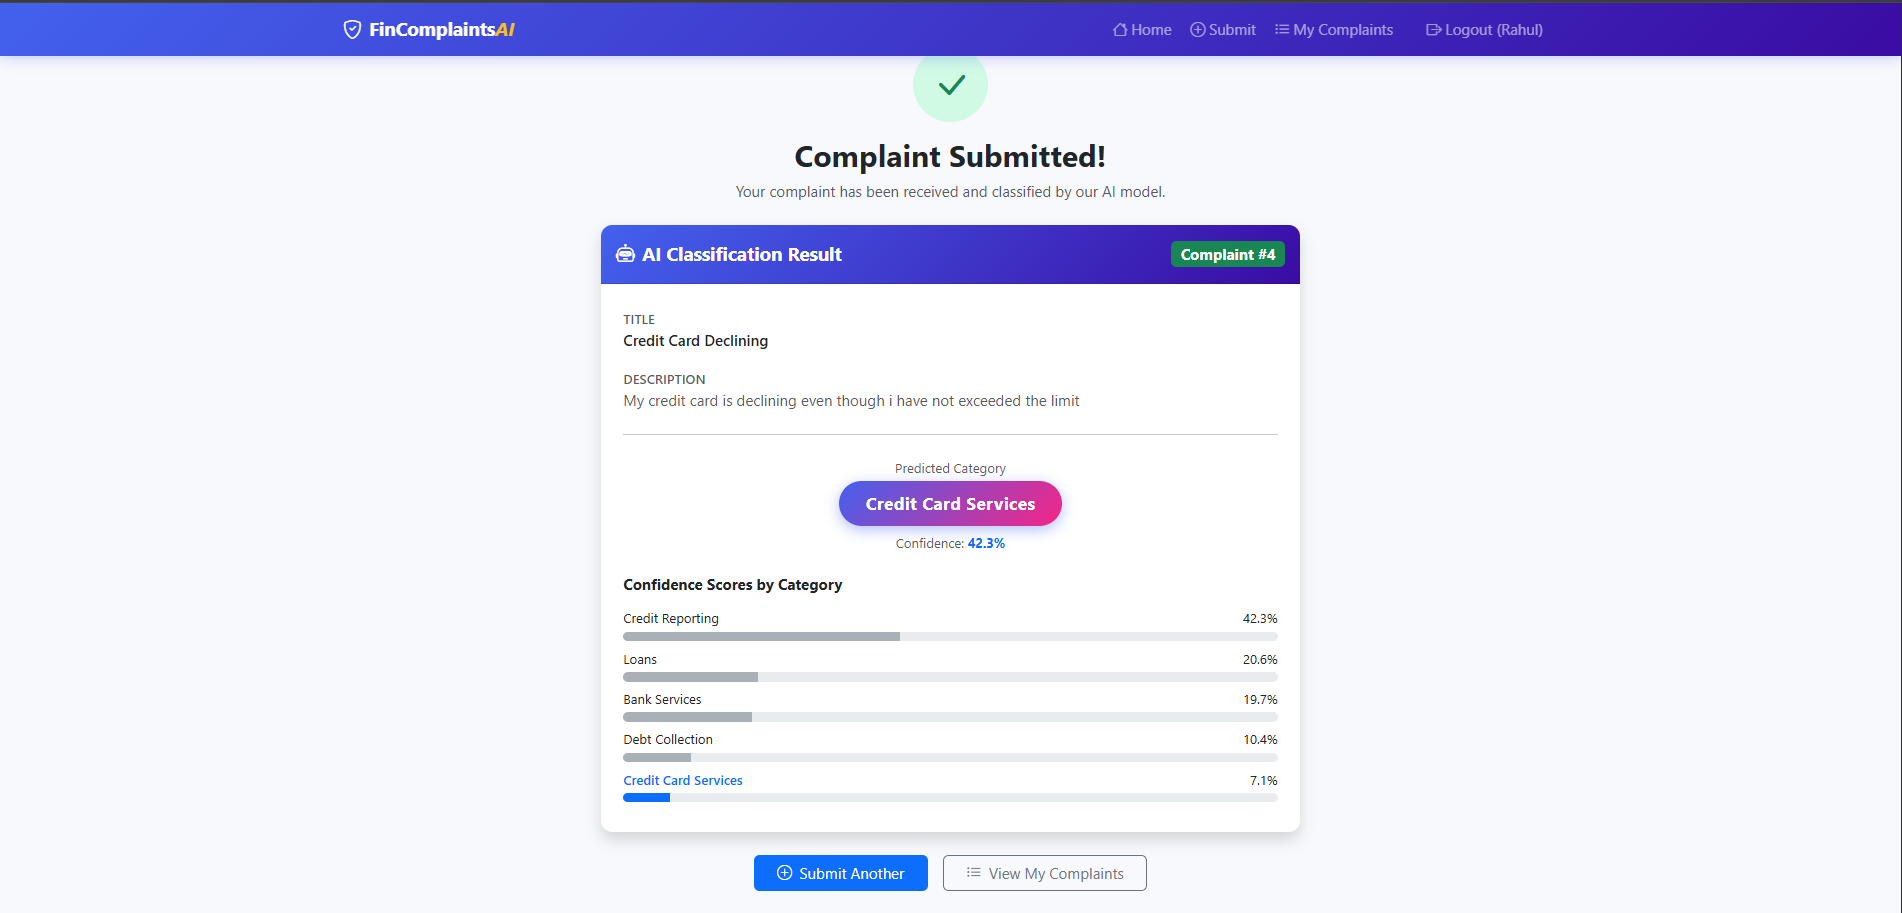
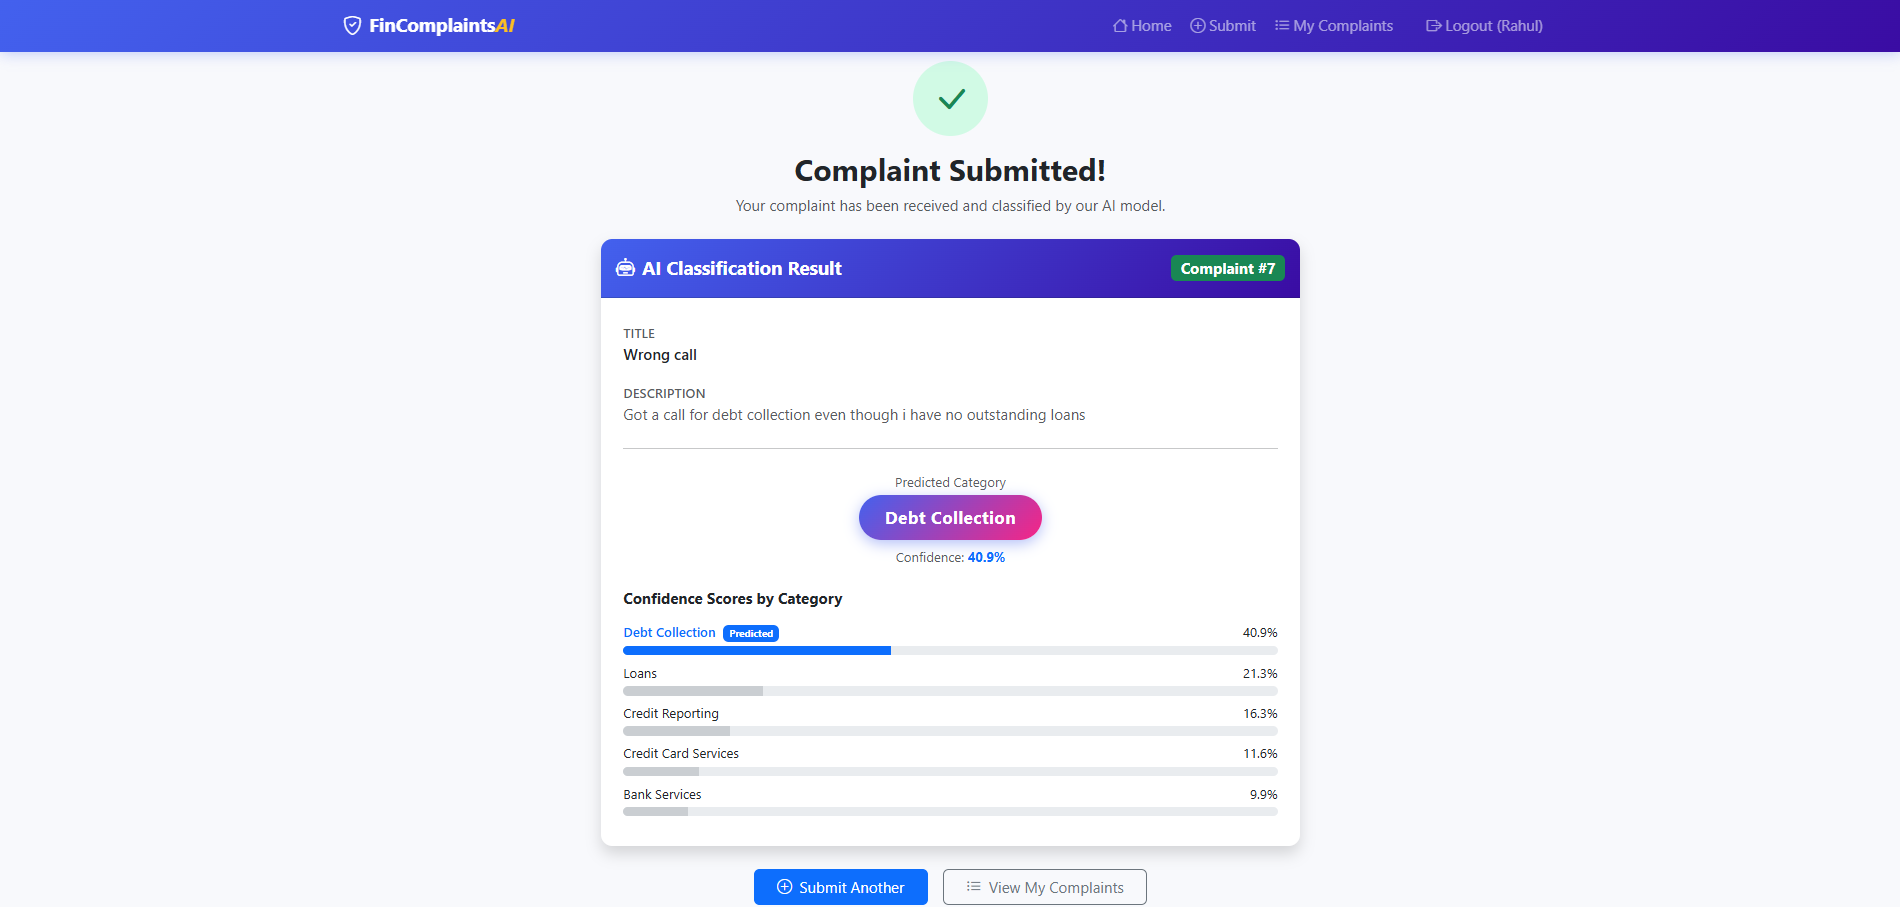
Fixed bugs

diff --git a/templates/success.html b/templates/success.html
@@ -50,11 +50,13 @@
               {% for cat, score in result.scores.items() | sort(attribute=1, reverse=True) %}
               <div class="mb-2">
                 <div class="d-flex justify-content-between small mb-1">
-                  <span {% if cat == result.category %}class="fw-semibold text-primary"{% endif %}>{{ cat }}</span>
+                  <span {% if cat == result.category %}class="fw-semibold text-primary"{% endif %}>
+                    {{ cat }} {% if cat == result.category %}<span class="badge bg-primary ms-1" style="font-size:0.65rem;">Predicted</span>{% endif %}
+                  </span>
                   <span>{{ score }}%</span>
                 </div>
                 <div class="progress" style="height:10px; border-radius:6px;">
-                  <div class="progress-bar {% if cat == result.category %}bg-primary{% else %}bg-secondary bg-opacity-50{% endif %}"
+                  <div class="progress-bar {% if cat == result.category %}bg-primary{% else %}bg-secondary bg-opacity-25{% endif %}"
                        role="progressbar"
                        style="width: {{ score }}%"
                        data-width="{{ score }}"></div>

diff --git a/model/predict.py b/model/predict.py
@@ -15,8 +15,8 @@ def _load():
 
 def predict(text: str) -> dict:
     _load()
-    label = _pipeline.predict([text])[0]
     proba = _pipeline.predict_proba([text])[0]
     scores = {cat: round(float(p) * 100, 1) for cat, p in zip(_categories, proba)}
-    confidence = round(float(max(proba)) * 100, 1)
+    label = max(scores, key=scores.get)
+    confidence = scores[label]
     return {"category": label, "confidence": confidence, "scores": scores}

diff --git a/app.py b/app.py
@@ -13,7 +13,7 @@ BASE_DIR = os.path.dirname(os.path.abspath(__file__))
 sys.path.insert(0, BASE_DIR)
 
 app = Flask(__name__)
-app.secret_key = "fc-secret-key-2024-change-in-prod"
+app.secret_key = "fc-secret-key-2026-change-in-prod"
 
 DB_PATH = os.path.join(BASE_DIR, "complaints.db")
 
